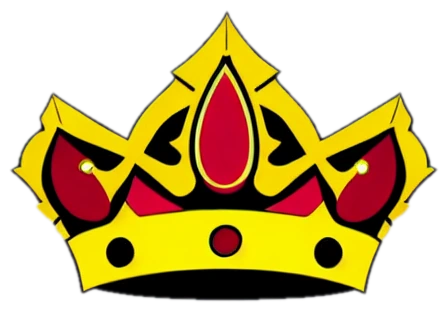
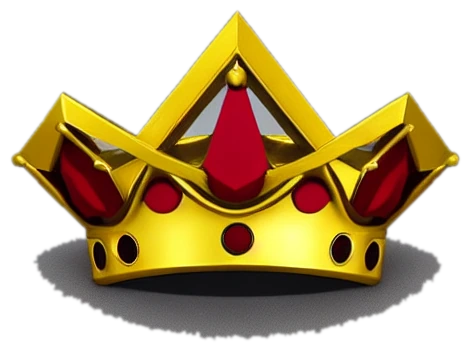
Iconos de tienda en estilo low poly
Re-generados con prompt "low poly 3d, flat shaded faceted geometry":
brujula angular dorada (pista), reloj de arena facetado azul
(deshacer) y corona dorada con gemas rojas (midas) — coherentes con
el arte low poly de los interiores.

Generated with [Devin](https://devin.ai)

diff --git a/tools/gen-shop-icons.py b/tools/gen-shop-icons.py
@@ -12,8 +12,8 @@ sys.path.insert(0, str(Path(__file__).parent))
 from shop_gen import pipe, chroma_key  # noqa: E402
 
 STYLE = ("single object centered on plain solid white background, "
-         "cartoon game item icon, flat colors, bold shapes, painterly, "
-         "video game asset")
+         "low poly 3d style, flat shaded faceted geometry, bold angular "
+         "shapes, cartoon game item icon, video game asset")
 NEG = ("text, watermark, signature, blurry, distorted, ugly, low quality, "
        "photorealistic, photo, people, hands, crowd, ui, interface, "
        "frame, border, card, ornate frame, pattern, background details, "
